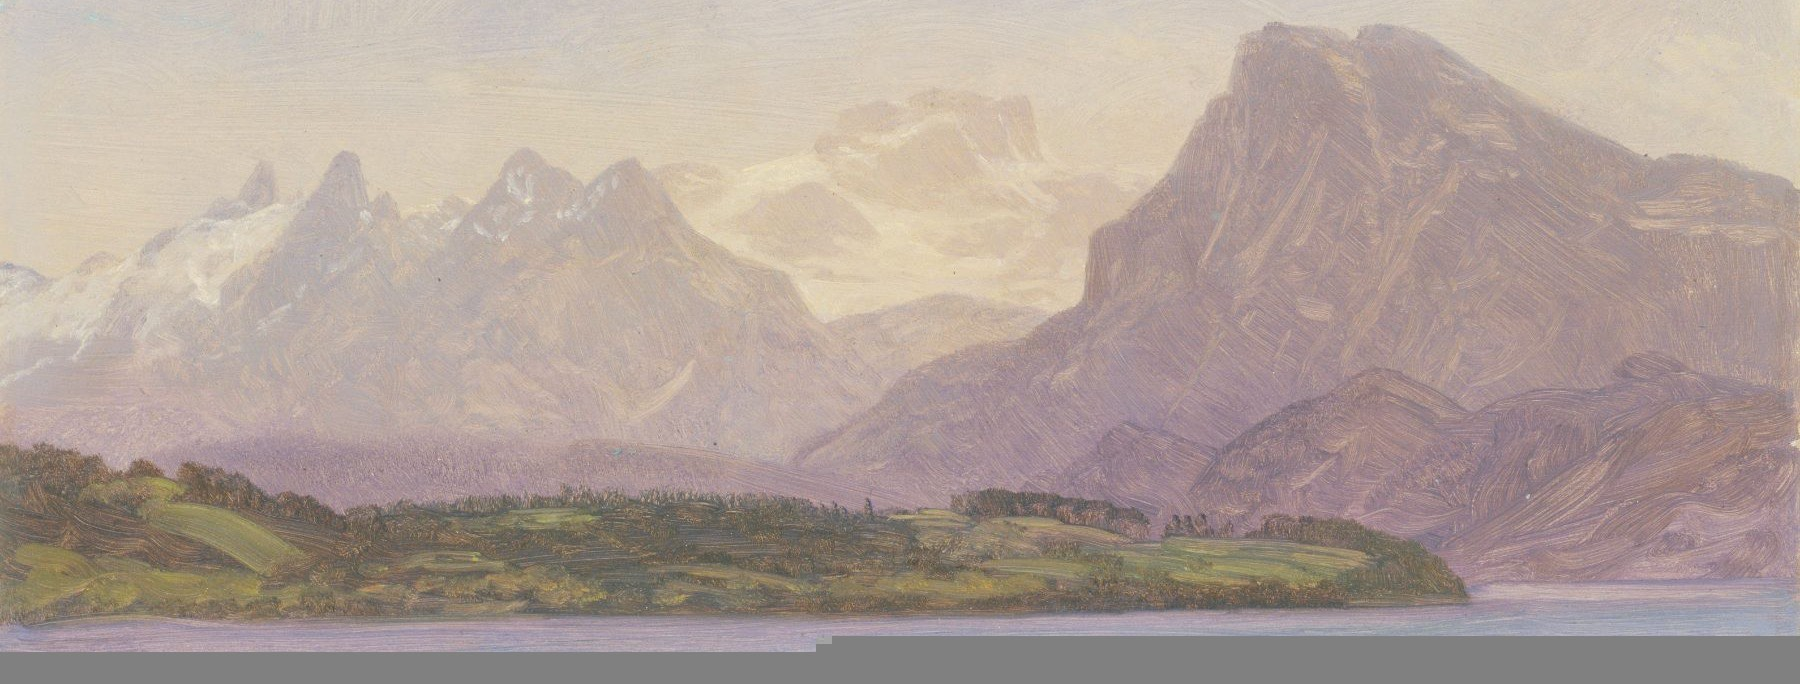
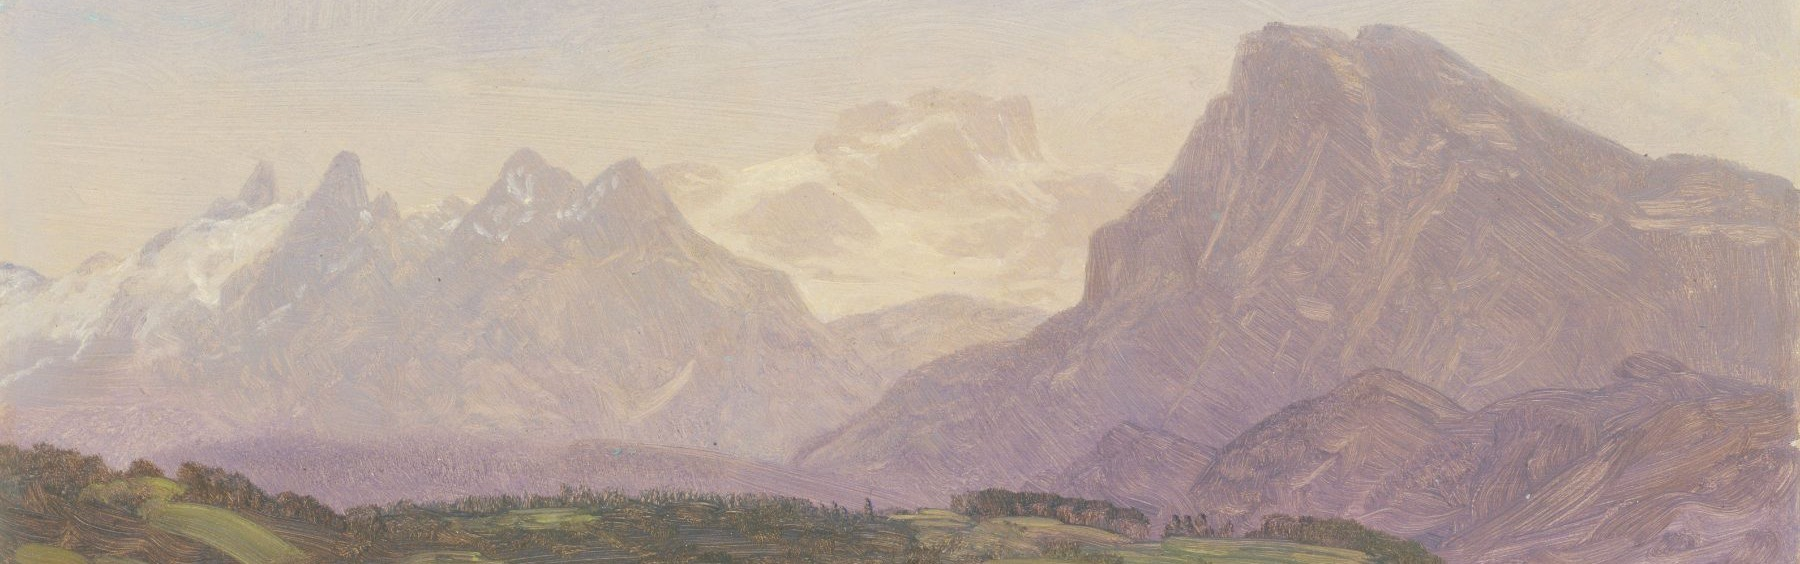
Fix terminal flashing and the hero painting grey band
- Terminal: the spinner was re-rendering the whole terminal every 90ms, which
  also restarted the review/summary fade-in each tick — the flashing/glitching.
  Now the spinner mutates only its own glyph in place and typing updates only
  the typed span; the terminal rebuilds solely on real scene/line changes.
- Hero painting: the source image had a solid grey block baked into its bottom
  ~30% (below the lake). Re-cropped to the rich mountains/hills band so the
  backdrop fills the whole stage; lighter overlay + tighter window shadow so the
  bottom no longer reads as a muddy grey band. Cache-busted the image URL.

diff --git a/deploy/index.html b/deploy/index.html
@@ -121,7 +121,7 @@
 
   .xo-stage {
     border-radius: var(--radius-xl); overflow: hidden;
-    background-image: linear-gradient(180deg, rgba(20,18,11,.24), rgba(20,18,11,.38)), url("assets/landscape-hero.jpg");
+    background-image: linear-gradient(180deg, rgba(20,18,11,.16), rgba(20,18,11,.26)), url("assets/landscape-hero.jpg?v=2");
     background-size: cover; background-position: center; background-repeat: no-repeat;
     padding: clamp(28px,5vw,56px); border: 1px solid var(--border-subtle);
   }
@@ -188,7 +188,7 @@
   .xo-footer__copy { font-family: var(--font-sans); }
 
   /* ---- terminal window ---- */
-  .xo-win { border-radius: var(--radius-xl); overflow: hidden; border: 1px solid rgba(20,18,11,.5); box-shadow: var(--shadow-float); background: #100e08; width: 100%; font-variant-ligatures: none; }
+  .xo-win { border-radius: var(--radius-xl); overflow: hidden; border: 1px solid rgba(20,18,11,.5); box-shadow: 0 22px 55px -30px rgba(0,0,0,.5), 0 6px 16px -10px rgba(0,0,0,.35); background: #100e08; width: 100%; font-variant-ligatures: none; }
   .xo-win__bar { display: flex; align-items: center; gap: 8px; padding: 10px 14px; background: #1b1913; border-bottom: 1px solid rgba(237,236,236,.08); }
   .xo-win__dot { width: 11px; height: 11px; border-radius: 50%; }
   .xo-win__title { flex: 1; text-align: center; font-family: var(--font-mono); font-size: 11.5px; color: #a2a19b; }
@@ -545,16 +545,20 @@ git worktree remove &lt;path&gt;   # or discard</pre>
     }
   }
 
-  function render(f, spin){
+  // render() rebuilds the terminal only on scene/content changes. High-frequency
+  // updates (spinner glyph, typed text) mutate their own element in place, so the
+  // whole terminal never re-renders on a timer — no flashing, and the review/summary
+  // .xo-fade animation plays once per scene instead of restarting every tick.
+  function render(f){
     head.innerHTML = '<span style="color:'+T.ember+';font-weight:600">xocode</span><span style="color:'+T.faint+'">  ›  </span><span style="color:'+T.dim+'">'+esc(f.crumb)+'</span>';
     var html = "";
     if (f.view === "input") {
       html = '<div><div style="font-family:var(--font-mono);font-size:13.5px;color:'+T.fg+';font-weight:600">What should we build?</div>'
         + '<div style="font-family:var(--font-mono);font-size:12.5px;color:'+T.faint+';margin-top:4px">Opus 4.8 will plan it; Composer 2.5 will build it.</div>'
         + '<div style="margin-top:16px;border:1px solid '+T.ember+';border-radius:8px;padding:12px 14px;min-height:46px;box-shadow:0 0 0 3px rgba(247,109,43,0.10)">'
-        + '<span style="font-family:var(--font-mono);font-size:13px;color:'+T.fg+'">'+esc(f.typed||"")+'</span><span class="xo-caret"></span></div></div>';
+        + '<span id="t-typed" style="font-family:var(--font-mono);font-size:13px;color:'+T.fg+'">'+esc(f.typed||"")+'</span><span class="xo-caret"></span></div></div>';
     } else if (f.view === "stream") {
-      var s = '<div style="font-family:var(--font-mono);font-size:12.5px;margin-bottom:8px"><span style="color:'+T.ember+'">'+SPINNER[spin]+' </span><span style="color:'+T.ember+'">'+esc(f.status?f.status.label:"")+'…</span>';
+      var s = '<div style="font-family:var(--font-mono);font-size:12.5px;margin-bottom:8px"><span id="t-spin" style="color:'+T.ember+'">'+SPINNER[spin]+'</span><span style="color:'+T.ember+'"> '+esc(f.status?f.status.label:"")+'…</span>';
       if (f.status && f.status.tool) s += '<span style="color:'+T.faint+'">   ·   </span><span style="color:'+T.emberDim+'">⚙ '+esc(f.status.tool)+'</span>';
       s += '</div><div>' + (f.lines||[]).map(lineHTML).join("") + '</div>';
       html = s;
@@ -574,7 +578,8 @@ git worktree remove &lt;path&gt;   # or discard</pre>
       {kind:"num",n:"3",text:"Return 429 with Retry-After, plus a test"}, {kind:"sp"},
       {kind:"meta",k:"Files",v:"3 changed"}, {kind:"meta",k:"Estimate",v:"~40 lines · isolated worktree"} ] };
 
-  if (reduce) { render(REDUCED, 0); return; }
+  var spin = 0;
+  if (reduce) { render(REDUCED); return; }
 
   function buildTimeline(){
     var steps = [], push = function(ms, patch){ steps.push({ms:ms, patch:patch}); };
@@ -636,18 +641,31 @@ git worktree remove &lt;path&gt;   # or discard</pre>
   }
 
   var frame = { crumb:"Task", view:"input", typed:"", status:null, approve:false, footer:[["ctrl+d","submit"],["ctrl+c","quit"]], lines:[] };
-  var spin = 0;
-  setInterval(function(){ spin = (spin+1) % SPINNER.length; render(frame, spin); }, 90);
+
+  // Spinner: advance only the glyph, in place. The #t-spin element exists only
+  // in the stream view, so this is a no-op the rest of the time.
+  setInterval(function(){
+    spin = (spin + 1) % SPINNER.length;
+    var el = document.getElementById("t-spin");
+    if (el) el.textContent = SPINNER[spin];
+  }, 90);
 
   var steps = buildTimeline(), i = 0, timer;
   function run(){
     var step = steps[i % steps.length];
+    var keys = Object.keys(step.patch);
+    var onlyTyped = keys.length === 1 && keys[0] === "typed";
     for (var k in step.patch) frame[k] = step.patch[k];
-    render(frame, spin);
+    if (onlyTyped && frame.view === "input") {
+      var t = document.getElementById("t-typed");
+      if (t) { t.textContent = frame.typed; } else { render(frame); }
+    } else {
+      render(frame);
+    }
     i += 1;
     timer = setTimeout(run, step.ms);
   }
-  render(frame, spin);
+  render(frame);
   timer = setTimeout(run, 600);
 })();
 </script>